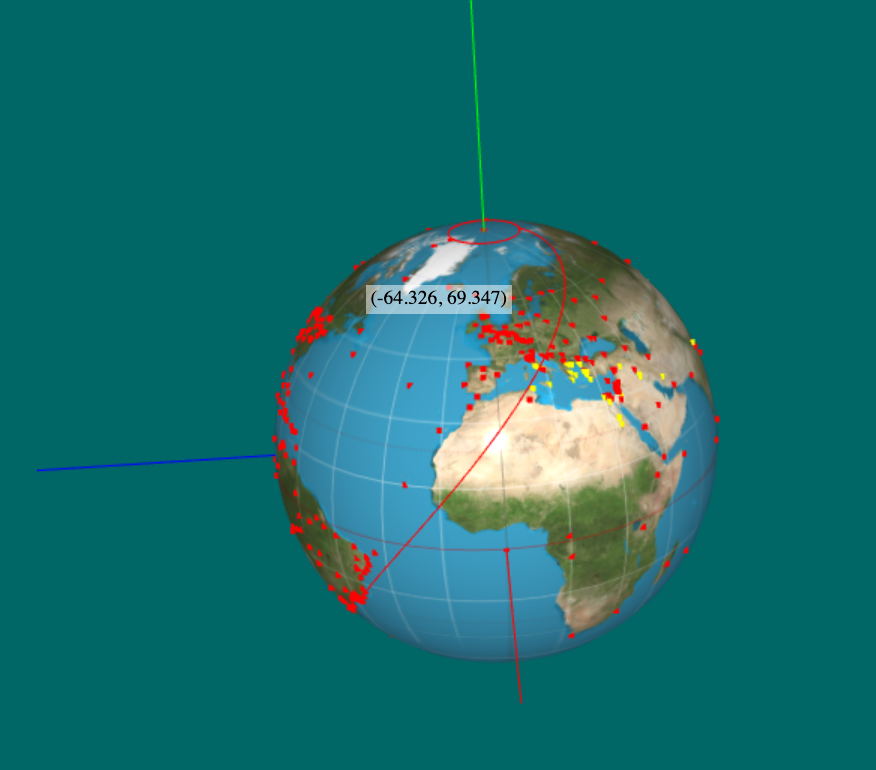
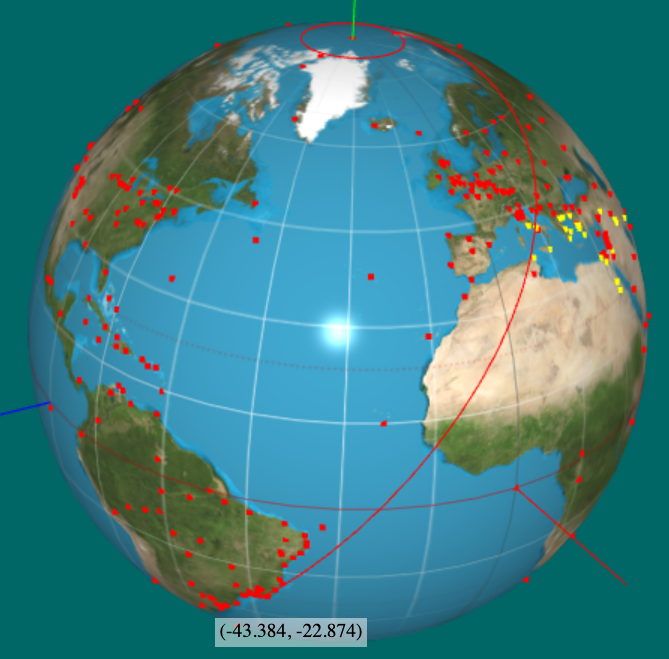
New loxodrome images.

diff --git a/13-webgl/extras/LightingWithTexture.html b/13-webgl/extras/LightingWithTexture.html
@@ -559,6 +559,7 @@ when using mipmap:
                 <li>e,I - extrinsic/intrinsic rotation</li>
                 <li>E - toggle city position on/off</li>
                 <li>f - toggle fixuv on/off (sphere by subdivision)</li>
+                <li>F - toggle loxodrome on/off</li>
                 <li>K - toggle equirectangular/mercator projection</li>
                 <li>g,→,G,← - next/previous pre-defined GPS locations</li>
                 <li>k - toggle texture on/off</li>

diff --git a/13-webgl/extras/LightingWithTexture2.html b/13-webgl/extras/LightingWithTexture2.html
@@ -566,6 +566,7 @@ when using mipmap:
                 <li>e,I - extrinsic/intrinsic rotation</li>
                 <li>E - toggle city position on/off</li>
                 <li>f - toggle fixuv on/off (sphere by subdivision)</li>
+                <li>F - toggle loxodrome on/off</li>
                 <li>K - toggle equirectangular/mercator projection</li>
                 <li>g,→,G,← - next/previous pre-defined GPS locations</li>
                 <li>k - toggle texture on/off</li>

diff --git a/13-webgl/extras/doc-light/module-mat4.html b/13-webgl/extras/doc-light/module-mat4.html
@@ -10892,7 +10892,7 @@ Passing null/undefined/no value for far will generate infinite projection matrix
 <br class="clear">
 
 <footer>
-    Documentation generated by <a href="https://github.com/jsdoc/jsdoc">JSDoc 4.0.4</a> on Tue Jan 20 2026 08:38:33 GMT-0300 (Brasilia Standard Time)
+    Documentation generated by <a href="https://github.com/jsdoc/jsdoc">JSDoc 4.0.4</a> on Tue Jan 20 2026 08:56:36 GMT-0300 (Brasilia Standard Time)
 </footer>
 
 <script> prettyPrint(); </script>

diff --git a/13-webgl/extras/doc-light/module-polyhedron.html b/13-webgl/extras/doc-light/module-polyhedron.html
@@ -3703,7 +3703,7 @@ vertices, normal vectors, texture coordinates, mercator coordinates and indices.
 <br class="clear">
 
 <footer>
-    Documentation generated by <a href="https://github.com/jsdoc/jsdoc">JSDoc 4.0.4</a> on Tue Jan 20 2026 08:38:33 GMT-0300 (Brasilia Standard Time)
+    Documentation generated by <a href="https://github.com/jsdoc/jsdoc">JSDoc 4.0.4</a> on Tue Jan 20 2026 08:56:36 GMT-0300 (Brasilia Standard Time)
 </footer>
 
 <script> prettyPrint(); </script>

diff --git a/13-webgl/extras/doc-light/module-quat2.html b/13-webgl/extras/doc-light/module-quat2.html
@@ -7378,7 +7378,7 @@ NOTE: The resulting dual quaternions won't always be normalized (The error is mo
 <br class="clear">
 
 <footer>
-    Documentation generated by <a href="https://github.com/jsdoc/jsdoc">JSDoc 4.0.4</a> on Tue Jan 20 2026 08:38:33 GMT-0300 (Brasilia Standard Time)
+    Documentation generated by <a href="https://github.com/jsdoc/jsdoc">JSDoc 4.0.4</a> on Tue Jan 20 2026 08:56:36 GMT-0300 (Brasilia Standard Time)
 </footer>
 
 <script> prettyPrint(); </script>

diff --git a/13-webgl/extras/doc-light/TeapotGeometry.html b/13-webgl/extras/doc-light/TeapotGeometry.html
@@ -631,7 +631,7 @@ YouTube video on teapot history: <a href="https://www.youtube.com/watch?v=DxMfbl
 <br class="clear">
 
 <footer>
-    Documentation generated by <a href="https://github.com/jsdoc/jsdoc">JSDoc 4.0.4</a> on Tue Jan 20 2026 08:38:33 GMT-0300 (Brasilia Standard Time)
+    Documentation generated by <a href="https://github.com/jsdoc/jsdoc">JSDoc 4.0.4</a> on Tue Jan 20 2026 08:56:36 GMT-0300 (Brasilia Standard Time)
 </footer>
 
 <script> prettyPrint(); </script>

diff --git a/13-webgl/extras/doc-light/module-glMatrix.html b/13-webgl/extras/doc-light/module-glMatrix.html
@@ -585,7 +585,7 @@ than or equal to 1.0, and a relative tolerance is used for larger values)
 <br class="clear">
 
 <footer>
-    Documentation generated by <a href="https://github.com/jsdoc/jsdoc">JSDoc 4.0.4</a> on Tue Jan 20 2026 08:38:33 GMT-0300 (Brasilia Standard Time)
+    Documentation generated by <a href="https://github.com/jsdoc/jsdoc">JSDoc 4.0.4</a> on Tue Jan 20 2026 08:56:36 GMT-0300 (Brasilia Standard Time)
 </footer>
 
 <script> prettyPrint(); </script>

diff --git a/13-webgl/extras/doc-light/module-vec3.html b/13-webgl/extras/doc-light/module-vec3.html
@@ -9145,7 +9145,7 @@ Can also be used for dual quaternions. (Multiply it with the real part)
 <br class="clear">
 
 <footer>
-    Documentation generated by <a href="https://github.com/jsdoc/jsdoc">JSDoc 4.0.4</a> on Tue Jan 20 2026 08:38:33 GMT-0300 (Brasilia Standard Time)
+    Documentation generated by <a href="https://github.com/jsdoc/jsdoc">JSDoc 4.0.4</a> on Tue Jan 20 2026 08:56:36 GMT-0300 (Brasilia Standard Time)
 </footer>
 
 <script> prettyPrint(); </script>

diff --git a/13-webgl/extras/doc-light/module-vec2.html b/13-webgl/extras/doc-light/module-vec2.html
@@ -8074,7 +8074,7 @@ Note that the cross product must by definition produce a 3D vector
 <br class="clear">
 
 <footer>
-    Documentation generated by <a href="https://github.com/jsdoc/jsdoc">JSDoc 4.0.4</a> on Tue Jan 20 2026 08:38:33 GMT-0300 (Brasilia Standard Time)
+    Documentation generated by <a href="https://github.com/jsdoc/jsdoc">JSDoc 4.0.4</a> on Tue Jan 20 2026 08:56:36 GMT-0300 (Brasilia Standard Time)
 </footer>
 
 <script> prettyPrint(); </script>

diff --git a/13-webgl/extras/doc-light/SimpleRotator.html b/13-webgl/extras/doc-light/SimpleRotator.html
@@ -1125,7 +1125,7 @@ If not present, the length of viewDirectionVector is used.
 <br class="clear">
 
 <footer>
-    Documentation generated by <a href="https://github.com/jsdoc/jsdoc">JSDoc 4.0.4</a> on Tue Jan 20 2026 08:38:33 GMT-0300 (Brasilia Standard Time)
+    Documentation generated by <a href="https://github.com/jsdoc/jsdoc">JSDoc 4.0.4</a> on Tue Jan 20 2026 08:56:36 GMT-0300 (Brasilia Standard Time)
 </footer>
 
 <script> prettyPrint(); </script>

diff --git a/13-webgl/extras/doc-light/index.html b/13-webgl/extras/doc-light/index.html
@@ -1372,7 +1372,7 @@ for interactive 3D model manipulation and visualization.
 <br class="clear">
 
 <footer>
-    Documentation generated by <a href="https://github.com/jsdoc/jsdoc">JSDoc 4.0.4</a> on Tue Jan 20 2026 08:38:33 GMT-0300 (Brasilia Standard Time)
+    Documentation generated by <a href="https://github.com/jsdoc/jsdoc">JSDoc 4.0.4</a> on Tue Jan 20 2026 08:56:36 GMT-0300 (Brasilia Standard Time)
 </footer>
 
 <script> prettyPrint(); </script>

diff --git a/13-webgl/extras/doc-light/module-mat2.html b/13-webgl/extras/doc-light/module-mat2.html
@@ -4812,7 +4812,7 @@ This is equivalent to (but much faster than):
 <br class="clear">
 
 <footer>
-    Documentation generated by <a href="https://github.com/jsdoc/jsdoc">JSDoc 4.0.4</a> on Tue Jan 20 2026 08:38:33 GMT-0300 (Brasilia Standard Time)
+    Documentation generated by <a href="https://github.com/jsdoc/jsdoc">JSDoc 4.0.4</a> on Tue Jan 20 2026 08:56:36 GMT-0300 (Brasilia Standard Time)
 </footer>
 
 <script> prettyPrint(); </script>
